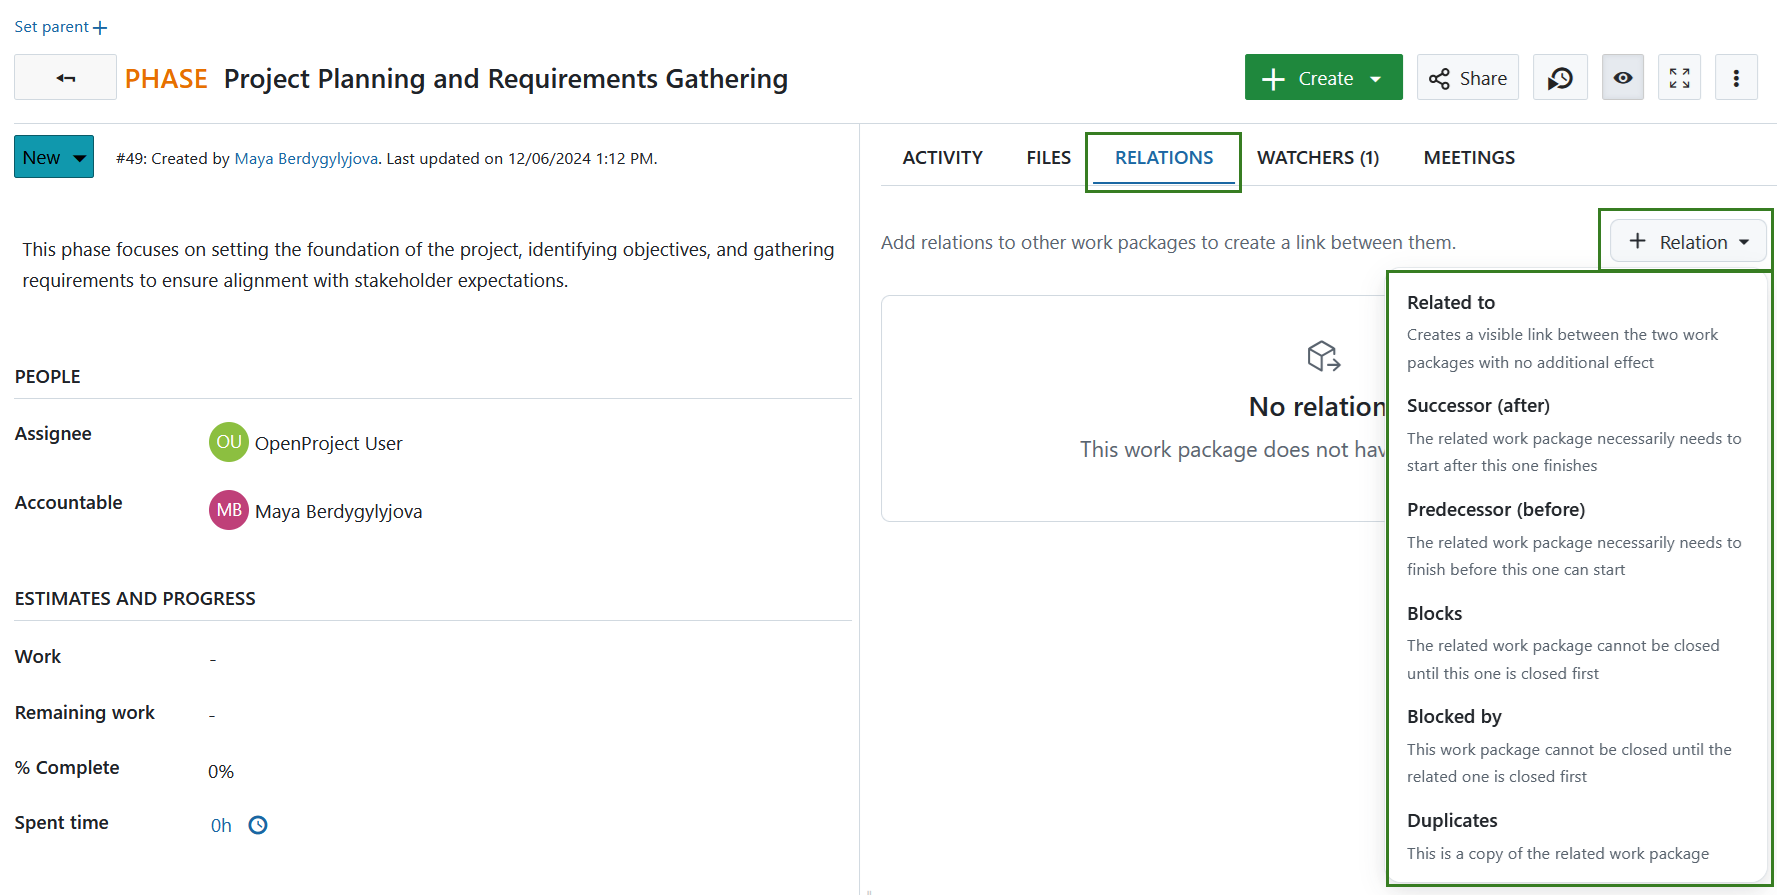
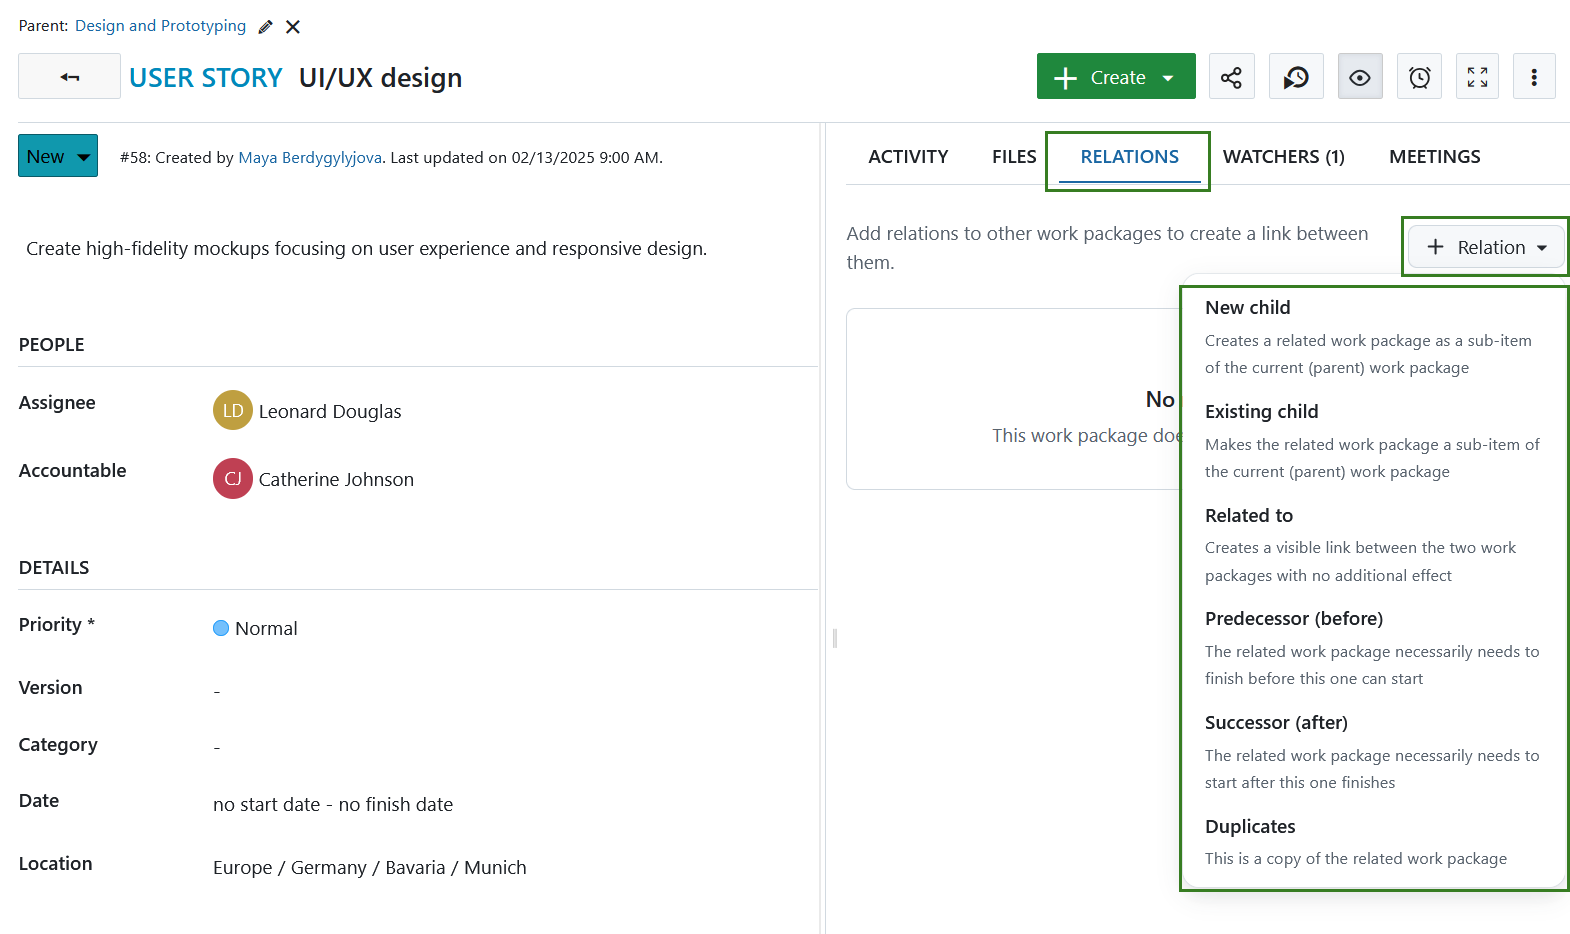
[#61328] 15.3 Relations tab changes  https://community.openproject.or… (#17932)
* [#61328] 15.3 Relations tab changes  https://community.openproject.org/work_packages/61328

[#61328] 15.3 Relations tab changes

https://community.openproject.org/work_packages/61328

* update relations docs

* Small updates, added some details

* Update docs/user-guide/work-packages/work-package-relations-hierarchies/README.md

---------

diff --git a/docs/user-guide/work-packages/work-package-relations-hierarchies/README.md b/docs/user-guide/work-packages/work-package-relations-hierarchies/README.md
@@ -25,7 +25,7 @@ Relations indicate any functional or timely relation (e.g. follows or proceeds, 
 
 Work package relations indicate that work packages address a similar topic or create status dependencies. To create a relationship between two work packages:
 
-1. Select a work package, click on **Relations** to open the relations tab and click the **+ Relation**  button.
+1. Select a work package, click on **Relations** to open the *Relations* tab and click the **+ Relation**  button.
 2. Select the type of relationship from the dropdown menu.
 3. Enter the ID or name of the work package, to which the relation should be created. The autocomplete will suggest the work package to be added.
 4. Enter a description of the relation. It will be visible for both of the related work packages.
@@ -37,12 +37,16 @@ Work package relations indicate that work packages address a similar topic or cr
 
 You can select one of the following relations:
 
+- **New child** - This option lets you create a new package and automatically adds it as a child to the current (parent) work package. 
+
+- **Existing child** - This option allows you to add an existing work package as a child to the current (parent) work package.
+
 - **Related to** - This option adds a link from the work package A to work package B, so that project members can immediately see the connection, even if the work packages are not members of the same hierarchy.
 
 - **Duplicates / Duplicated by** - This option indicates that the work package B duplicates a work package A in one way or another, for example both address the same task. This can be useful if you have the same work package that needs to be a part of a closed and public projects at the same time. The connection in this case is only semantic, the changes you make in work package A will need to be adapted in work package B manually.
 
 > [!NOTE]
-> some changes in statuses will be adjusted automatically for the duplicated work package. Specifically, if the status of a work package A is set to be "closed" (or set to any status that is defined to count as "closed" in the  [system settings](../../../system-admin-guide/manage-work-packages/work-package-status/), for example "rejected" often counts as a "closed" status), the status of the work package B will change to "closed". Note that this is direction dependent. Only if the work package A is closed will the work package B be closed as well, not the other way around.
+> Some changes in statuses will be adjusted automatically for the duplicated work package. Specifically, if the status of a work package A is set to be "closed" (or set to any status that is defined to count as "closed" in the  [system settings](../../../system-admin-guide/manage-work-packages/work-package-status/), for example "rejected" often counts as a "closed" status), the status of the work package B will change to "closed". Note that this is direction dependent. Only if the work package A is closed will the work package B be closed as well, not the other way around.
 
 - **Blocks / Blocked by** - This option defines status change restrictions between two work packages. If you set a work package A to be blocking work package B, the status of work package B cannot be set to closed or resolved until the work package A is closed.
 
@@ -60,10 +64,10 @@ For the relations of type Predecessor/Successor, you can also define **Lag**, wh
 
 - **Requires / Required by** - Defines if work package A requires or is required by work package B. There is no additional effect.
 
-- **Child** - Makes the related a work package a sub-item of the current (parent) work package
-
 > [!TIP]
 > The selected relation status will be automatically displayed in the work package that you enter. For example if you select "Blocks" in the current work package A and specify work package B, work package B will automatically show that it is "Blocked by" A.
+
+
 
 ### Moving related work packages
 
@@ -111,15 +115,25 @@ There are **four ways to add or create a child work package**:
 
 ### Add a child in the *Relations* tab in a work package's details view
 
-Open a work package and select the tab *Relations*. Click on *+ Relation* button, scroll down the list of options and select *Child*. 
+Open a work package and select the tab *Relations*. Here you can click on *+ Relation* button, and select either *New child* or *Existing child* option to add a new or an existing work package as a child to the current one.
 
-![Add a child](openproject_user_guide_wp_add_child.png)
+![Add a child to a work package in OpenProject](openproject_user_guide_wp_add_child.png)
 
-Insert the name of the new work package and save the newly added child work package by clicking *Save* button. 
+Type the name of the new work package or select an existing one, then click the *Save* button. 
+
+When creating a new work package as a child, you will be asked to select type, a subject and optionally add description text. If there are required fields for the type selected, they will also appear here.
+
+![Create a new child work package under relations tab in OpenProject](openproject_user_guide_wp_add_child_new.png)
 
 ![Select a child work package in OpenProject](openproject_user_guide_wp_add_child_select.png)
 
 For more information on the work package creation take a look at the guideline on [creating a work package](../create-work-package).
+
+> [!TIP]
+>
+> If children work packages already exist for the current work package, you can also use the **+Child** button in the header of the 'Children' section.
+
+![Create child button under work package Relations tab in OpenProject](openproject_user_guide_wp_relations_child_button.png)
 
 ## Change the parent work package
 
@@ -129,10 +143,23 @@ To edit or remove the parent of a work package open the work package. At the top
 
 ## Display work package hierarchies
 
-After adding the parent and child work packages they are listed in the *Relations* tab.
-Note that only the children are shown in the relations tab and the parent isn't.
+After adding the parent and child work packages they are listed in the *Relations* tab. Related work packages are grouped by the type of relation into respective sections. 
 
-![Work package relations displayed in the relations tab in OpenProject](openproject_user_guide_relations_tab.png)
+> [!NOTE]
+>
+> Only the children are shown in the *Relations* tab and the parent isn't.
+
+>  [!TIP]
+>
+> Dates of the related work packages are only shown for date-based relations: children, predecessor and successor. 
+
+![Work package relations displayed in the Relations tab in OpenProject](openproject_user_guide_wp_relations_tab_overview.png)
+
+> [!NOTE]
+>
+> If you do not have necessary permissions (for example if only one specific work package was shared with you, but not the entire project), you will be able to see that a work package has a relation, and the dates of that related work package, but not other details of that related work package.
+
+![Example of work package relations displayed under Relations tab for a user with limited permissions in OpenProject](openproject_user_guide_ghost_relations.png)
 
 Hierarchies can also be displayed from the work package table view.
 To display work package hierarchies make sure the *Subject* column is displayed. You can activate or deactivate the hierarchy by pressing the icon next to the Subject.
